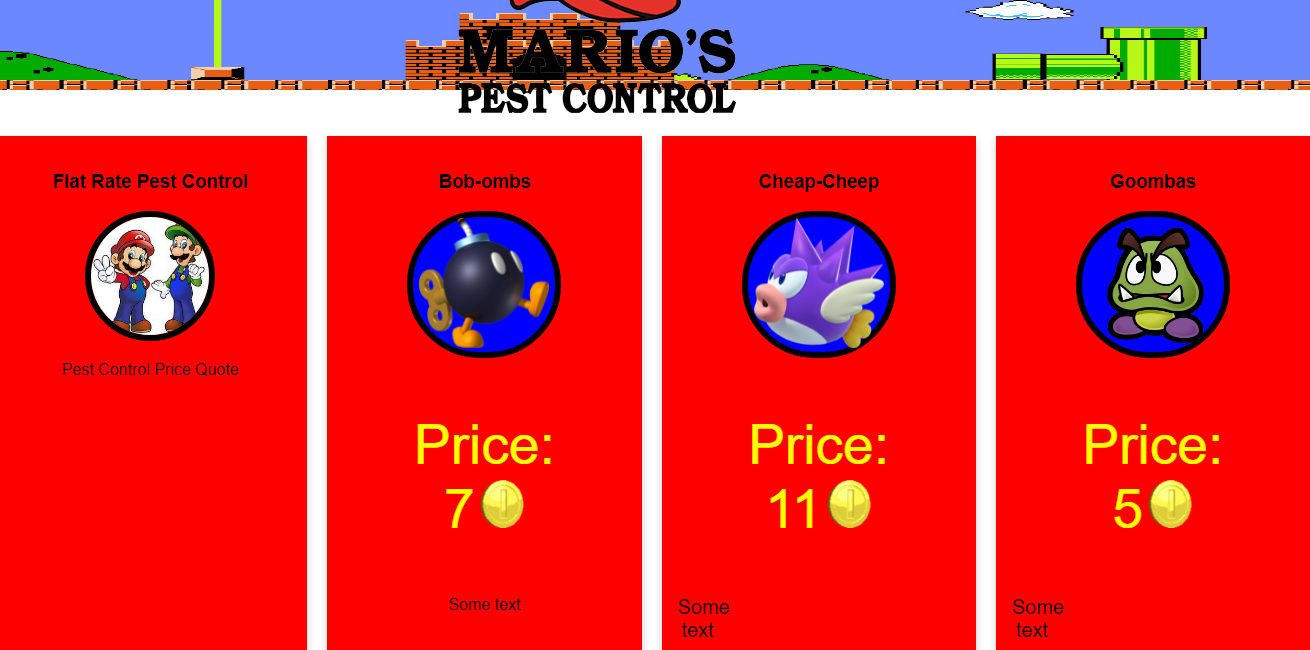
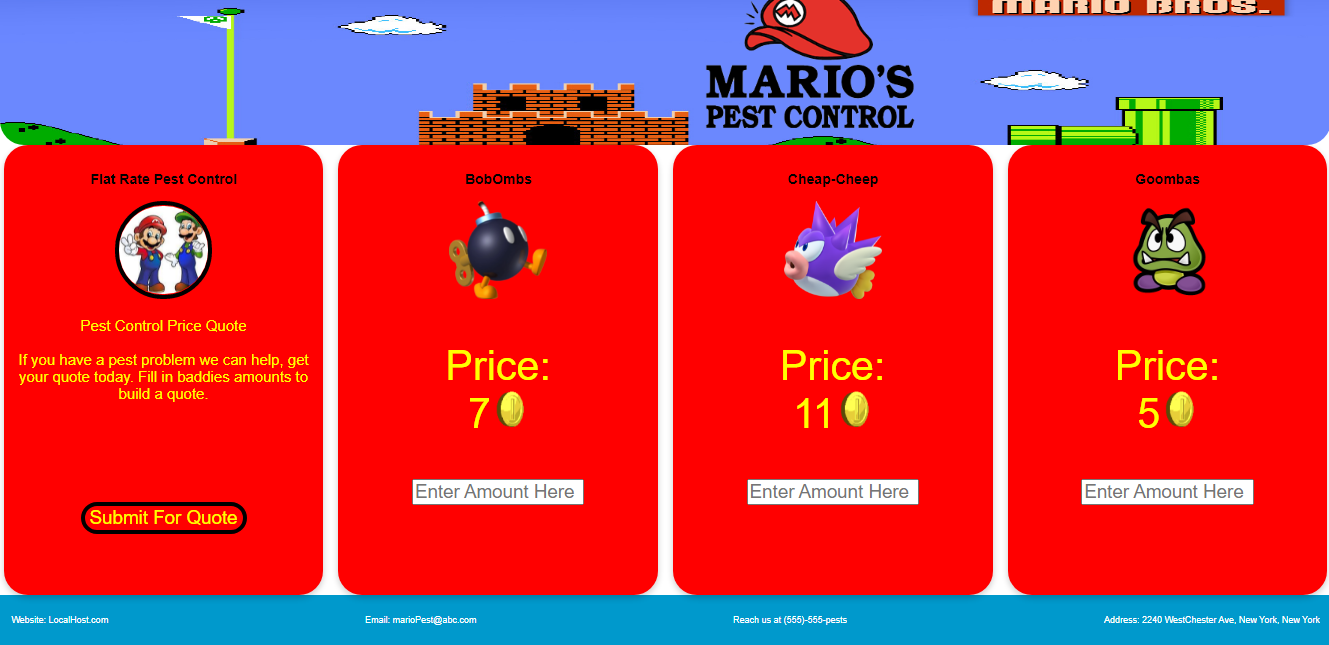
'updateJavaScriptParts'

diff --git a/module-2/marioPestControl/index.html b/module-2/marioPestControl/index.html
@@ -25,59 +25,66 @@
                 <h3>Flat Rate Pest Control</h3>
                 <img id="mbros" class="listItem"
                     src="https://encrypted-tbn0.gstatic.com/images?q=tbn:ANd9GcTiXMcm8B9hJUDmK3GxnRBP3dueobJkxV1p_SRzdju-6Yov7hrin1ArIV2XoxMzfxI7KoE&usqp=CAU">
-
-                <p class="titleDesc">Pest Control Price Quote<br><br>If you have a pest problem we can help, get your
-                    quote today. Click the baddies to build up a quote. </p>
-
+                <div id="totals">
+                    <label id="totalPrice">Price Quote: </label><br>
+                    <input type="text" id="total" name="total"><br>
+                    <input type="submit" id="submit" value="Get Quote"><br>
+                </div>
+                <!-- <p class="titleDesc">Pest Control Price Quote<br><br>If you have a pest problem we can help, get your
+                    quote today. Fill in baddies amounts to build a quote. </p>
+                <button id='getQuote' type="submit"
+                    style='position: relative; top: 20%;  font-size: 25px; color: yellow; background-color: transparent;'>Submit
+                    For Quote</button> -->
             </div>
         </div>
-
         <div class="column">
             <div class="card">
-                <h3>Bob-ombs</h3>
-                <button id="click">
+                <h3>BobOmbs</h3>
+                <form id="click">
                     <img class="listItem"
                         src="https://static.wikia.nocookie.net/nintendo/images/8/86/Bob-omb_%28MKWii%29.png/revision/latest?cb=20120819225302&path-prefix=en">
-                </button>
-                <p class="gCount" id="G-count">Price:<br>7<img src="https://c.tenor.com/niCYkSegysUAAAAi/coin-mario.gif"
-                        id="coin"></p>
-                <p id="B-total"></p>
+                    <p class="gCount" id="G-count">Price:<br>7<img
+                            src="https://c.tenor.com/niCYkSegysUAAAAi/coin-mario.gif" id="coin"></p>
+                    <input name='bobOmbs' type="number" placeholder="Enter Amount Here" name="NumOfPests" id="BB-total">
+
+                </form>
             </div>
         </div>
         <!-- https://mario.wiki.gallery/images/thumb/a/ae/NSMBU_Spiny_Cheep_Artwork.png/1200px-NSMBU_Spiny_Cheep_Artwork.png -->
         <div class="column">
             <div class="card">
                 <h3>Cheap-Cheep</h3>
-                <button id="click2">
+                <form id="click2">
                     <img class="listItem"
                         src="https://mario.wiki.gallery/images/thumb/a/ae/NSMBU_Spiny_Cheep_Artwork.png/1200px-NSMBU_Spiny_Cheep_Artwork.png">
-                </button>
-                <p class="gCount" id="G-count">Price:<br>11<img
-                        src="https://c.tenor.com/niCYkSegysUAAAAi/coin-mario.gif" id="coin"></p>
-                <p id="CC-total"></p>
+                    <p class="gCount" id="G-count">Price:<br>11<img
+                            src="https://c.tenor.com/niCYkSegysUAAAAi/coin-mario.gif" id="coin"></p>
+                    <input type="number" placeholder="Enter Amount Here" id="CC-total"></input>
+                </form>
             </div>
         </div>
 
         <div class="column">
             <div class="card">
                 <h3>Goombas</h3>
-                <button id="click3">
+                <form name="" id="click3">
                     <img class="listItem"
                         src="https://static.wikia.nocookie.net/papermario/images/9/99/Hyper_goomba.png/revision/latest?cb=20130528225911">
-                </button>
-                <p class="gCount" id="G-count">Price:<br>5<img src="https://c.tenor.com/niCYkSegysUAAAAi/coin-mario.gif"
-                        id="coin"></p>
-                <p id="G-total"></p>
+                    <p class="gCount" id="G-count">Price:<br>5<img
+                            src="https://c.tenor.com/niCYkSegysUAAAAi/coin-mario.gif" id="coin"></p>
+                    <input placeholder="Enter Amount Here" id="G-total"></input>
+                </form>
             </div>
         </div>
     </div>
 
     <div class="footer">
-        <p>Website: LocalHost.com </p>
-        <p>Email: marioPest@abc.com</p>
-        <p>Reach us at (555)-555-pests</p>
-        <p>Address: 2240 WestChester Ave, New York, New York</p>
+        <p>Website:<a href="OnMyLocalHost.com">OnMyLocalHost.com</a> </p>
+        <p>Email:<a href="mailto: marioPest@abc.com">marioPest@abc.com</a></p>
+        <p>Reach us at (555)-555-PEST</p>
+        <p>Address: 2240 N.Road, NY, New York</p>
     </div>
+
     <script src="main.js"></script>
 </body>
 

diff --git a/module-2/marioPestControl/styles.css b/module-2/marioPestControl/styles.css
@@ -63,6 +63,7 @@ body {
   padding: 16px;
   text-align: center;
   background-color: #f1f1f1;
+  border-radius: 2rem;
 }
 
 .row::after {
@@ -83,10 +84,10 @@ html {
 .header {
   background-image: url("https://virtualbackgrounds.site/wp-content/uploads/2020/07/super-mario-bros-level-ending.jpg");
   background-repeat: no-repeat;
-  background-size: 100% 80%;
-  /* background-color: #9933cc; */
+  background-size: 100% 110%;
+  border-radius: 2rem;
   color: #ffffff;
-  padding: 15px;
+  padding: 55px;
 }
 
 .menu ul {
@@ -118,10 +119,12 @@ html {
 
 .footer {
   background-color: #0099cc;
-  color: #ffffff;
+  color: black;
   text-align: center;
-  font-size: 12px;
-  padding: 15px;
+  font-size: 15px;
+  padding: 18px;
+  border: solid black;
+  border-radius: 2rem;
 }
 
 /* For mobile phones: */
@@ -180,7 +183,7 @@ html {
   }
 }
 
-@media only screen and (min-width: 768px) {
+@media only screen and (min-width: 268px) {
   /* For desktop: */
   .col-1 {
     width: 8.33%;
@@ -235,9 +238,9 @@ html {
   height: 130px;
 }
 #titleImage {
+  /* height: 200px; */
   position: relative;
-  left: 35%;
-  top: 40%;
+  left: 53%;
 }
 button {
   background: blue;
@@ -246,25 +249,22 @@ button {
   border: solid black 6px;
 }
 #coin {
-  height: 50px;
-  width: 50px;
+  height: 15%;
+  width: 17%;
 }
 .footer {
   display: flex;
   justify-content: space-between;
 }
-li {
-  width: 100%;
-}
+
 .col-3 {
   display: flex;
 }
-#test {
-}
+
 #mbros {
   border-radius: 12rem;
-  height: 130px;
-  width: 130px;
+  height: 25%;
+  width: 50%;
   border: solid black 6px;
 }
 #G-count {
@@ -274,7 +274,10 @@ li {
 
 div.card {
   height: 600px;
-  background-color: red;
+  background-color: rgb(25, 89, 186);
+  border: solid black;
+  margin-top: 3%;
+  margin-bottom: 2%;
 }
 div.row {
   justify-content: space-around;
@@ -290,20 +293,27 @@ input::-webkit-inner-spin-button {
 input[type="number"] {
   -moz-appearance: textfield;
 }
+#submit {
+  width: 40%;
+  font-size: 25px;
+}
+#total {
+  font-size: 25px;
+  max-width: 80%;
+  color: yellow;
+  background-color: rgb(25, 89, 186);
+}
 #G-total {
-  height: 40px;
-  font-size: 20px;
-  width: 40px;
+  font-size: 25px;
+  max-width: 80%;
 }
 #BB-total {
-  height: 40px;
-  font-size: 20px;
-  width: 40px;
+  font-size: 25px;
+  max-width: 80%;
 }
 #CC-total {
-  height: 40px;
-  font-size: 20px;
-  width: 40px;
+  font-size: 25px;
+  max-width: 80%;
 }
 #bobombsTotal {
   height: 40px;
@@ -314,6 +324,10 @@ input[type="number"] {
   font-size: 15px;
 }
 #goombasTotal {
-  height: 40px;
+  height: 10%;
+  font-size: 15px;
+}
+#totalPrice {
+  height: 30%;
   font-size: 15px;
 }

diff --git a/module-2/marioPestControl/main.js b/module-2/marioPestControl/main.js
@@ -1,31 +1,12 @@
-let count = 1;
-let priceBB = 7;
-function addOne() {
-    document.getElementById('click').onclick = function () {
-        console.log(count, 'Bob-Ombs');
-        return console.log(count++ * priceBB);
-    }
-
+function getTotal() {
+    return (document.getElementById("G-total").value * 5) +
+        (document.getElementById("BB-total").value * 7) +
+        (document.getElementById("CC-total").value * 11);
 }
-addOne();
 
-let count2 = 1;
-let priceCC = 11;
-function addCC() {
-    document.getElementById('click2').onclick = function () {
-        console.log(count2, 'CheapCheep');
-        return console.log('Flat Rate ' + count2++ * priceCC + ' coins');
-
-    }
-}
-addCC();
-
-let count3 = 1;
-let priceGoo = 5;
-function addGoo() {
-    document.getElementById('click3').onclick = function () {
-        console.log(count3, 'Goombas');
-        return console.log(count3++ * priceGoo);
-    }
-}
-addGoo();
+document.getElementById("submit").addEventListener('click', function (e) {
+    e.preventDefault();
+    let result = document.getElementById("total").value = 'Your Price is ' + getTotal() + " Coins"
+    console.log(result)
+})
+getTotal();
